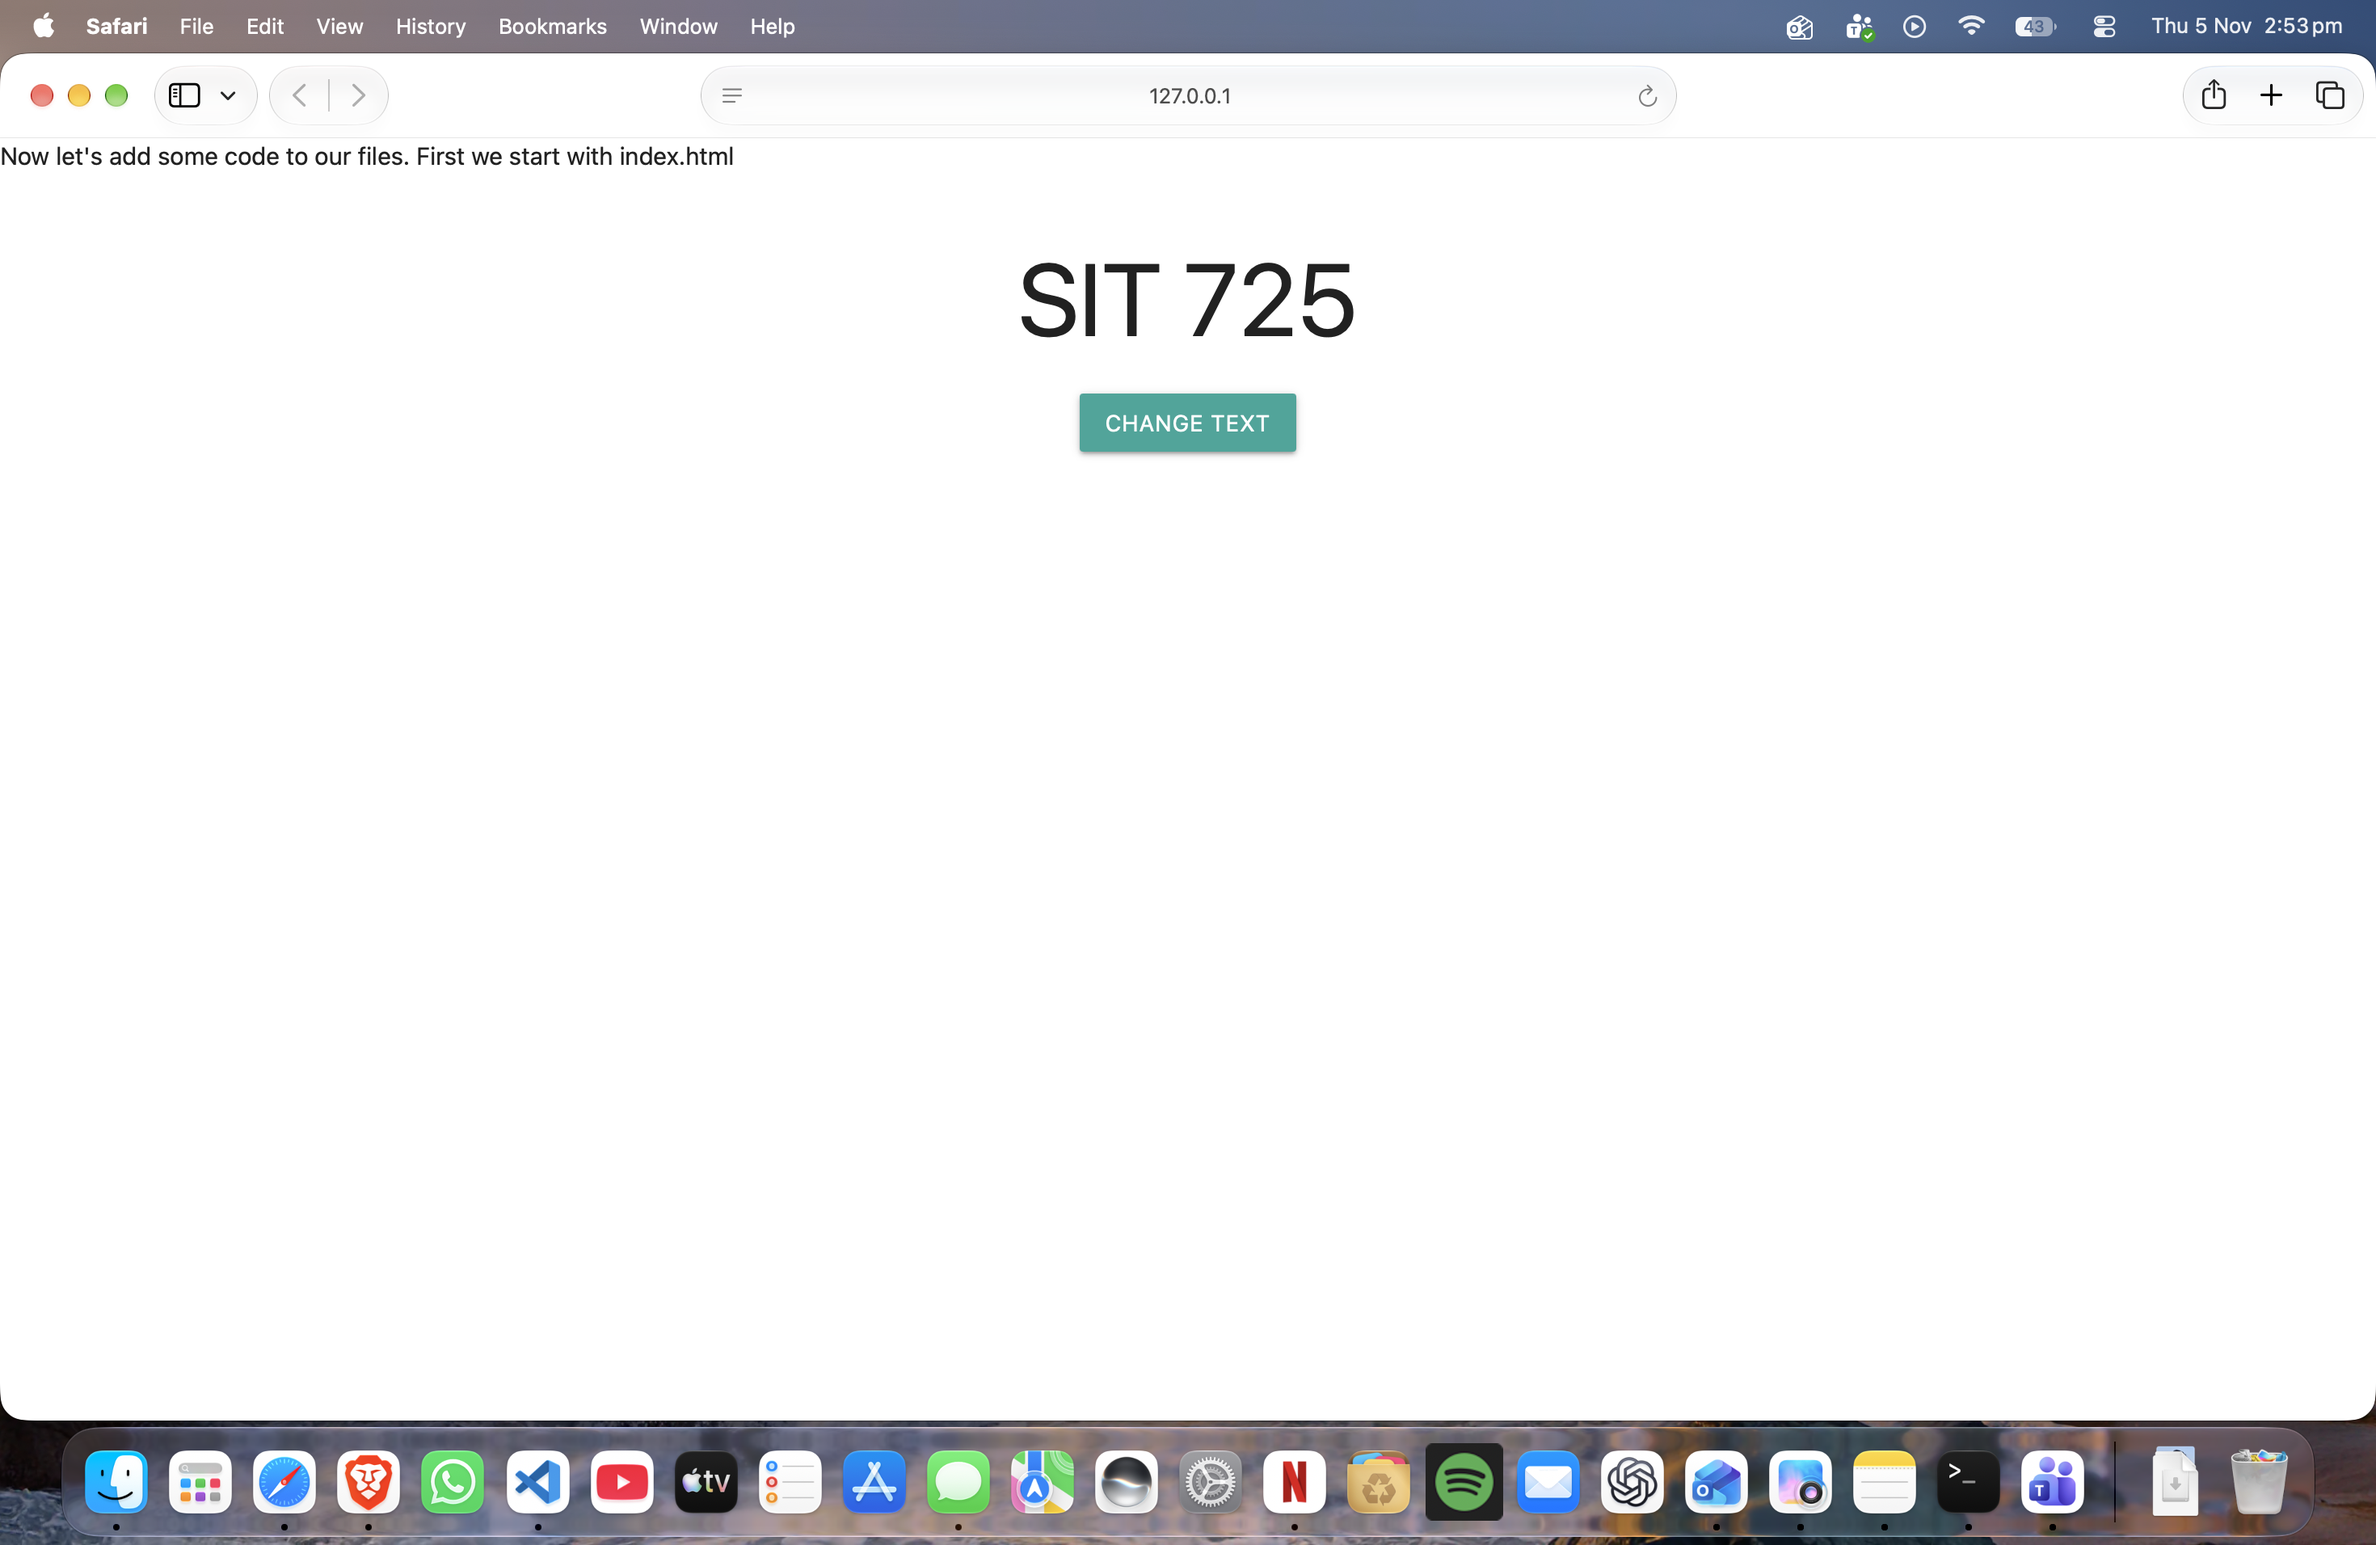
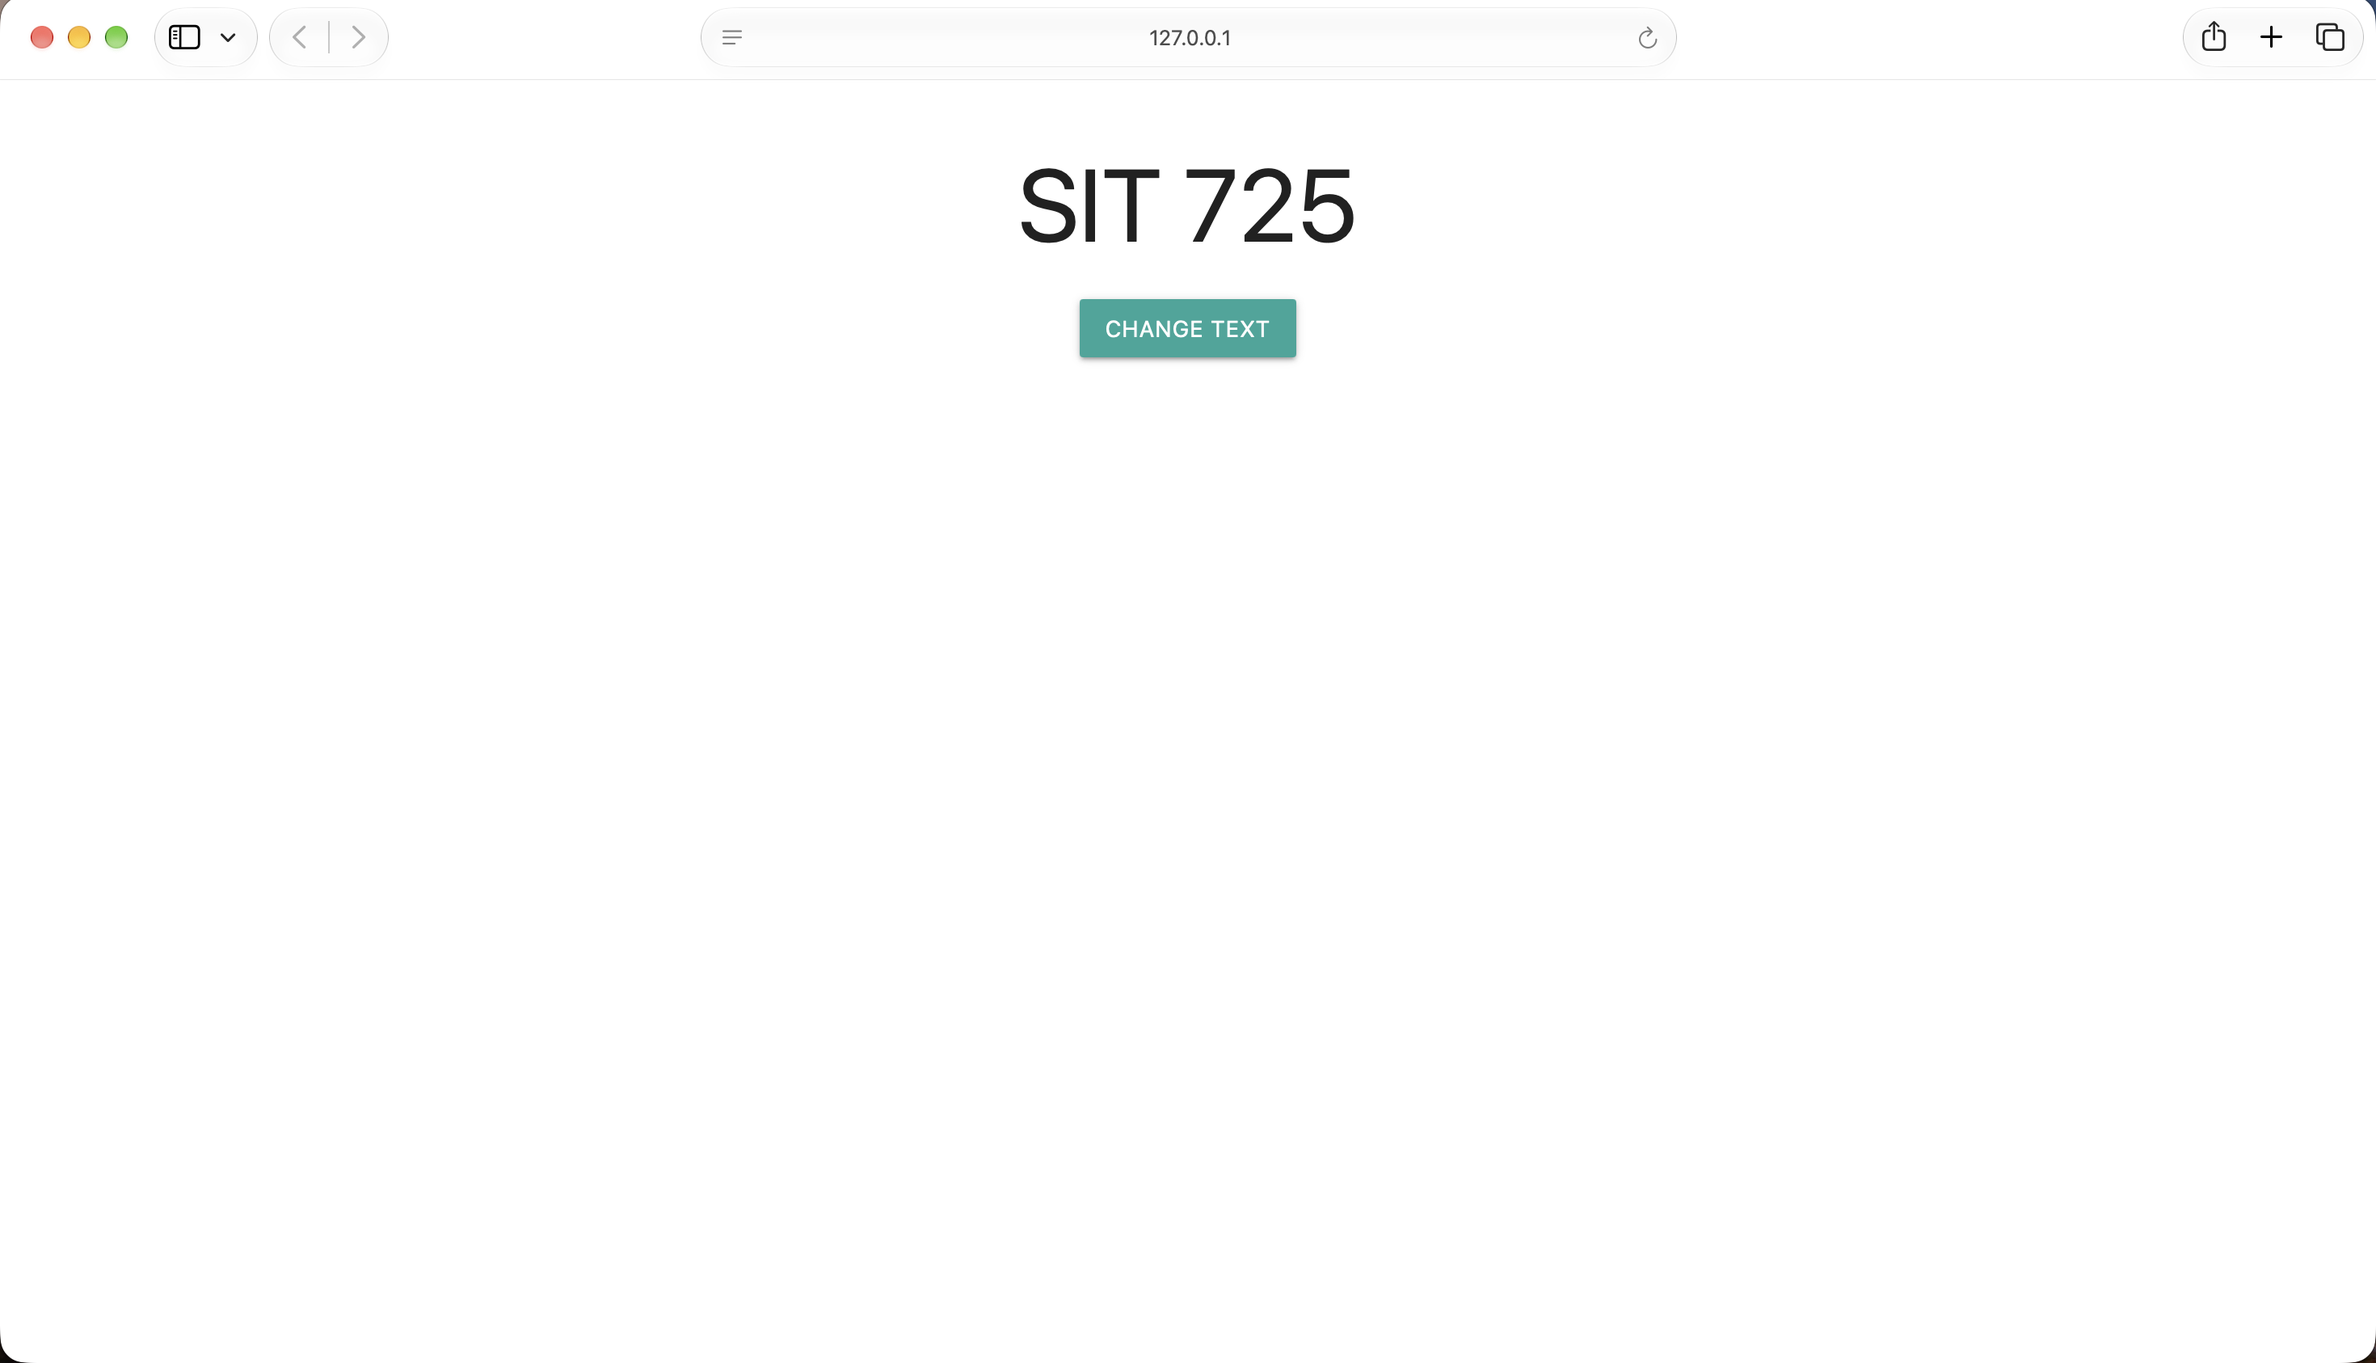
Remove macOS metadata file

Changed region(s): [[0.0, 0.8944, 1.0, 1.0], [0.0, 0.0, 1.0, 0.1234], [0.4333, 0.1234, 0.5881, 0.3084]]

diff --git a/1.1P/index.html b/1.1P/index.html
@@ -1,5 +1,4 @@
 <!doctype html>
-Now let's add some code to our files. First we start with index.html
 <html lang="en">
 <head>
 <meta charset="utf-8">
